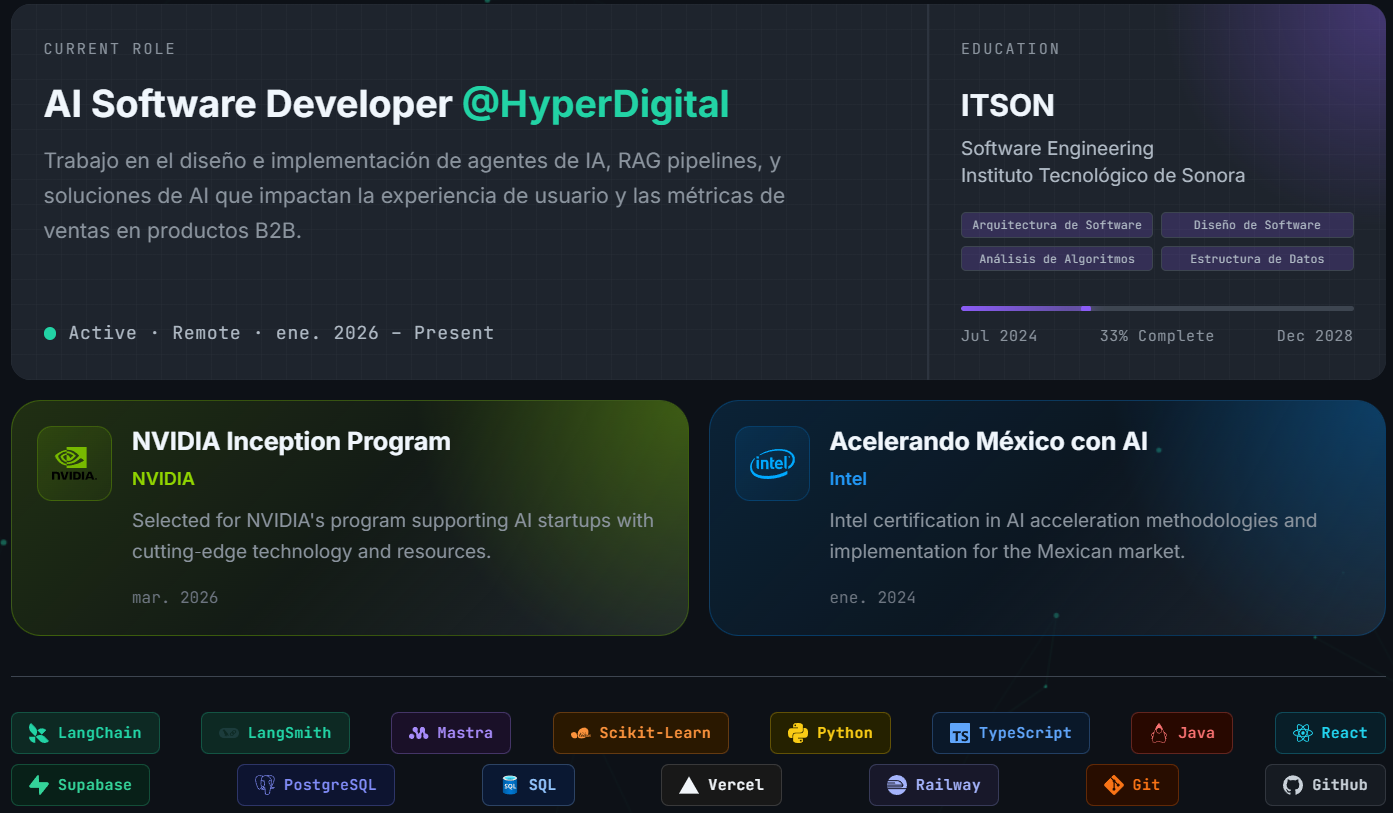
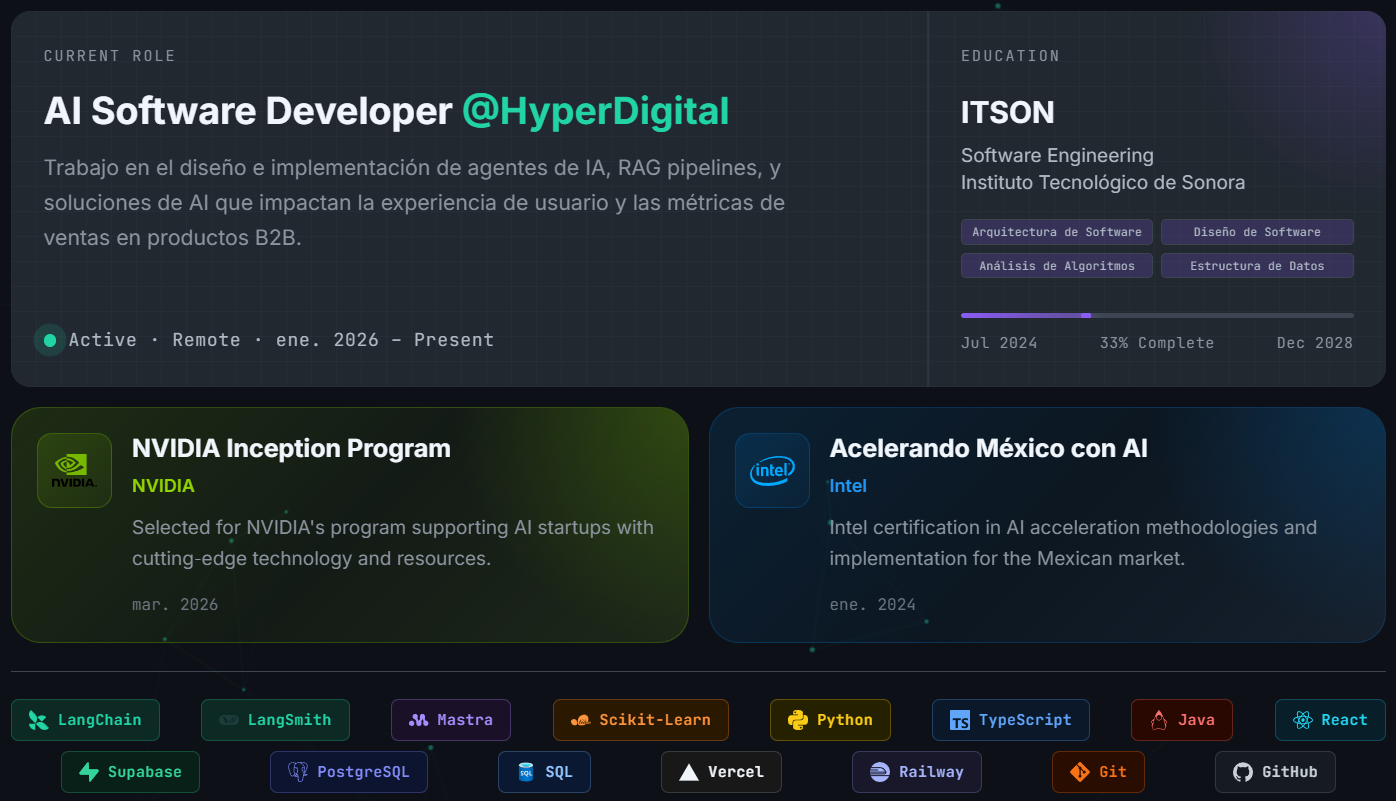
update: new profile

diff --git a/experience-profile.html b/experience-profile.html
@@ -14,9 +14,9 @@
     :root {
       --bg-base: #0d1117;
       --bg-surface: #010409;
-      --bg-card: #1e242d;
-      --bg-card-hover: #242b36;
-      --bg-card-2: #262d38;
+      --bg-card: #212830;
+      --bg-card-hover: #272f3a;
+      --bg-card-2: #2a3140;
 
       --border: #3d4550;
       --border-medium: #2d343f;
@@ -354,13 +354,13 @@
     }
 
     .ach-nvidia {
-      background: linear-gradient(135deg, rgba(118, 185, 0, 0.18), rgba(118, 185, 0, 0.06), var(--bg-card));
-      border: 1px solid rgba(118, 185, 0, 0.35);
+      background: linear-gradient(135deg, rgba(118, 185, 0, 0.16), rgba(118, 185, 0, 0.06), #1d2819);
+      border: 1px solid rgba(118, 185, 0, 0.28);
     }
 
     .ach-intel {
-      background: linear-gradient(135deg, rgba(0, 113, 197, 0.18), rgba(0, 113, 197, 0.06), var(--bg-card));
-      border: 1px solid rgba(0, 113, 197, 0.35);
+      background: linear-gradient(135deg, rgba(0, 113, 197, 0.16), rgba(0, 113, 197, 0.06), #17202c);
+      border: 1px solid rgba(0, 113, 197, 0.28);
     }
 
     .ach-row {
@@ -743,21 +743,21 @@
     }
 
     .fx-glow-purple::after {
-      width: 180px;
-      height: 180px;
-      background: radial-gradient(circle at top right, rgba(139, 92, 246, 0.35) 0%, transparent 70%);
+      width: 160px;
+      height: 160px;
+      background: radial-gradient(circle at top right, rgba(139, 92, 246, 0.22) 0%, transparent 70%);
     }
 
     .fx-glow-nvidia::after {
-      width: 220px;
-      height: 220px;
-      background: radial-gradient(circle at top right, rgba(118, 185, 0, 0.40) 0%, transparent 70%);
+      width: 190px;
+      height: 190px;
+      background: radial-gradient(circle at top right, rgba(118, 185, 0, 0.26) 0%, transparent 70%);
     }
 
     .fx-glow-intel::after {
-      width: 220px;
-      height: 220px;
-      background: radial-gradient(circle at top right, rgba(0, 113, 197, 0.40) 0%, transparent 70%);
+      width: 190px;
+      height: 190px;
+      background: radial-gradient(circle at top right, rgba(0, 113, 197, 0.26) 0%, transparent 70%);
     }
 
     /* Elevate direct children above pseudo effects */
@@ -769,8 +769,8 @@
 
     /* ─── Stack section ─── */
     .stack-section {
-      margin-top: 2rem;
-      padding-top: 1.75rem;
+      margin-top: calc(1rem + 6px);
+      padding-top: calc(1rem + 6px);
       border-top: 1px solid var(--border);
     }
 
@@ -783,6 +783,11 @@
     .stack-chip-row {
       display: flex;
       justify-content: space-between;
+    }
+
+    .stack-chip-row.centered {
+      justify-content: space-between;
+      padding: 0 2.5rem;
     }
 
     .chip {
@@ -914,7 +919,7 @@
             <span class="chip" style="background:#081e28;border-color:rgba(34,211,238,.25);color:#22d3ee"><img src="https://cdn.simpleicons.org/react/22d3ee" alt=""/>React</span>
           </div>
           <!-- Row 2: 7 chips -->
-          <div class="stack-chip-row">
+          <div class="stack-chip-row centered">
             <span class="chip" style="background:#082018;border-color:rgba(52,211,153,.25);color:#34d399"><img src="https://cdn.simpleicons.org/supabase/34d399" alt=""/>Supabase</span>
             <span class="chip" style="background:#0d1430;border-color:rgba(129,140,248,.28);color:#818cf8"><img src="https://cdn.simpleicons.org/postgresql/818cf8" alt=""/>PostgreSQL</span>
             <span class="chip" style="background:#0a1832;border-color:rgba(147,197,253,.25);color:#93c5fd"><img src="https://cdn.jsdelivr.net/gh/devicons/devicon/icons/azuresqldatabase/azuresqldatabase-original.svg" alt=""/>SQL</span>
